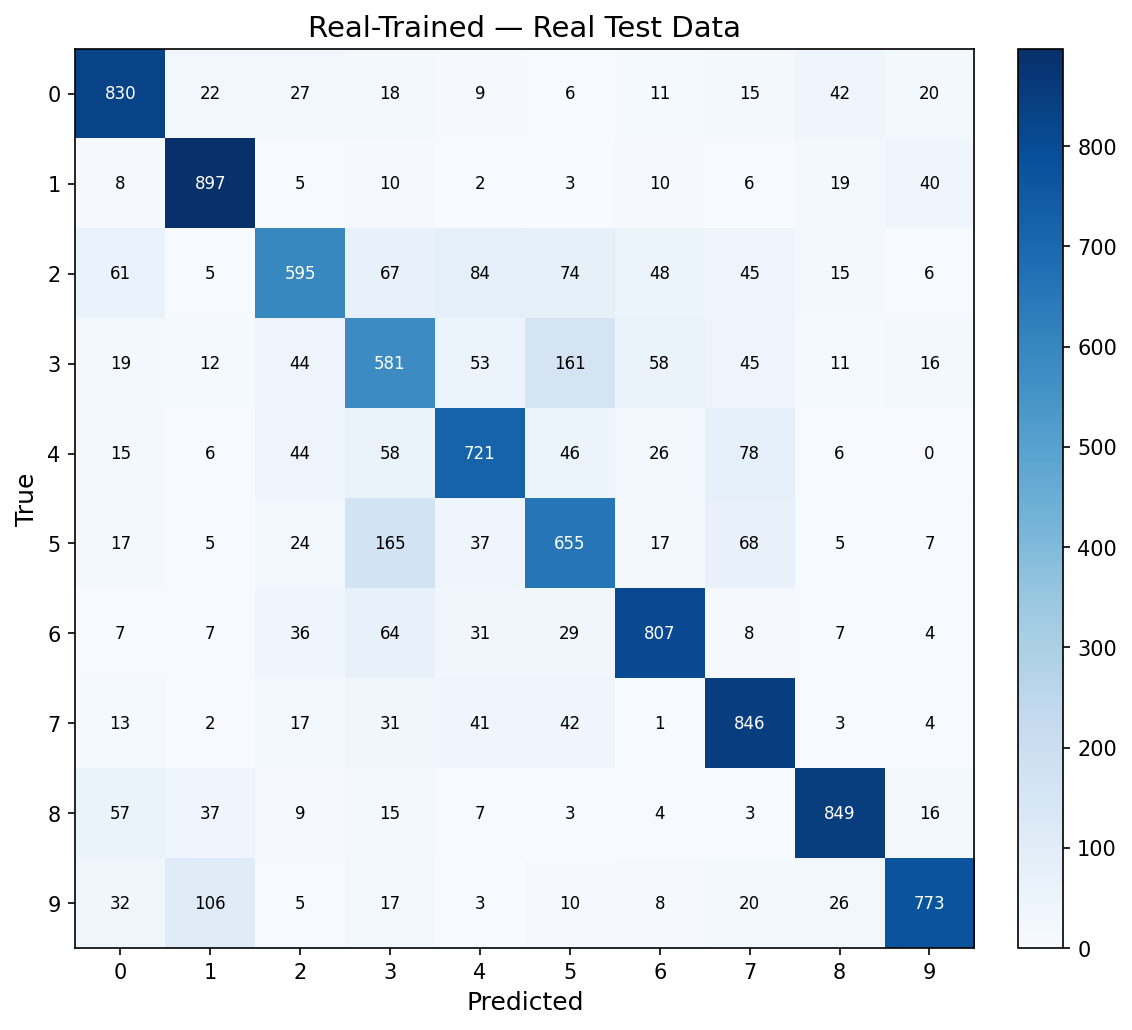
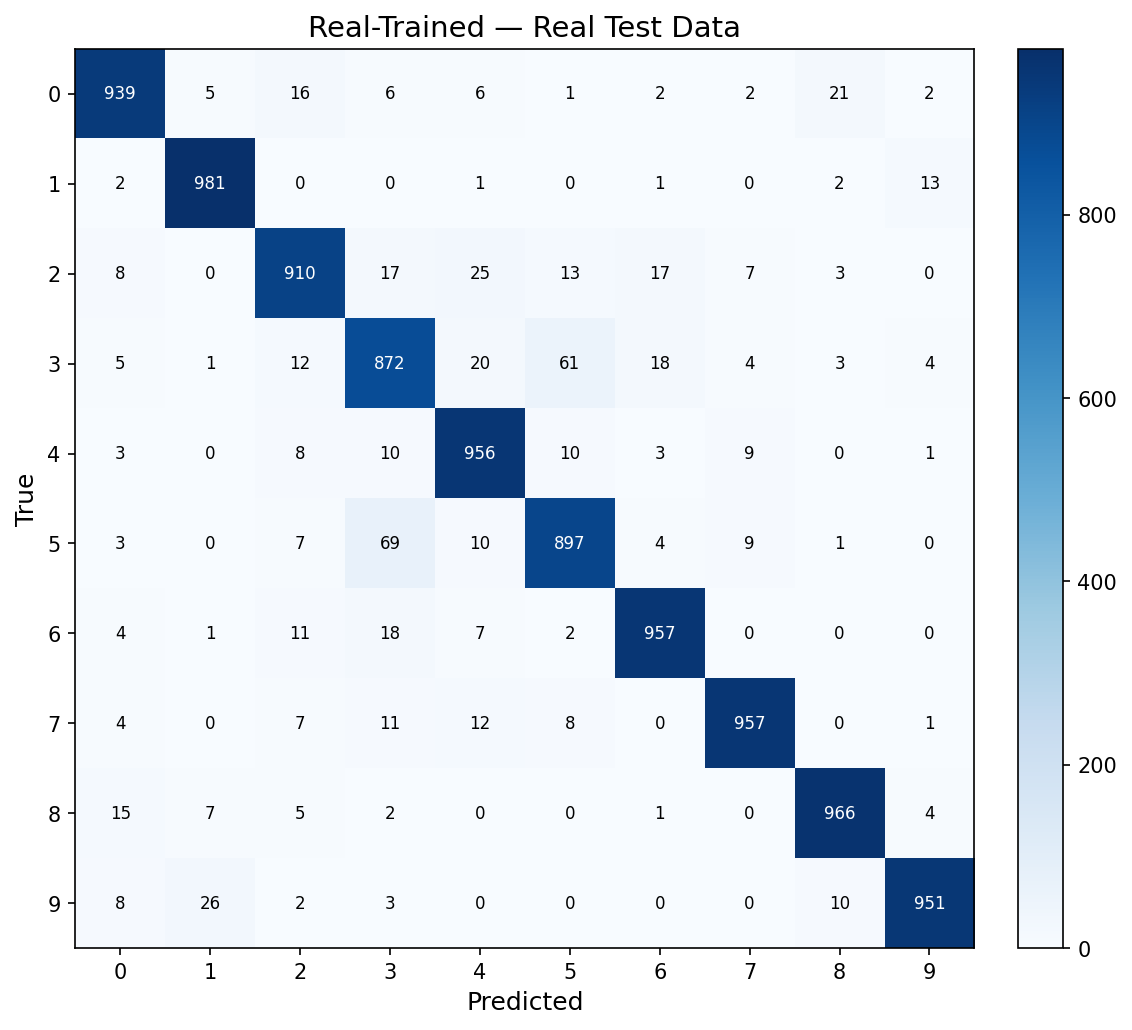
Tune CIFAR-10: EMA, bigger model, better classifier
Generative model improvements:
- 192 channels (was 128), ~16M params
- 200 epochs with EMA (decay 0.9999)
- LR warmup (1000 steps) + cosine decay

Classifier improvements:
- ResNet-style architecture with residual blocks + batch norm
- SGD with momentum + cosine LR schedule
- Data augmentation (random crop + flip) for both synthetic and real training
- 50 classifier epochs

Results: 83.01% synthetic-trained vs 93.86% real-trained (was 65.64% / 75.54%)

diff --git a/evaluate.py b/evaluate.py
@@ -25,6 +25,32 @@ from sample import sample
 from train import DATASET_CONFIG
 
 
+class AugmentedTensorDataset(torch.utils.data.Dataset):
+    """Wraps a TensorDataset with on-the-fly augmentation for training."""
+    def __init__(self, images, labels, augment=False):
+        self.images = images
+        self.labels = labels
+        self.augment = augment
+
+    def __len__(self):
+        return len(self.images)
+
+    def __getitem__(self, idx):
+        img = self.images[idx]
+        if self.augment:
+            # Random horizontal flip
+            if torch.rand(1).item() > 0.5:
+                img = img.flip(-1)
+            # Random crop with padding=4
+            pad = 4
+            img = F.pad(img, [pad] * 4, mode='reflect')
+            _, h, w = img.shape
+            top = torch.randint(0, 2 * pad, (1,)).item()
+            left = torch.randint(0, 2 * pad, (1,)).item()
+            img = img[:, top:top + h - 2 * pad, left:left + w - 2 * pad]
+        return img, self.labels[idx]
+
+
 # ---------- Synthetic data generation ----------
 
 def generate_synthetic_dataset(gen_model, device, samples_per_class=6000,
@@ -61,10 +87,11 @@ def generate_synthetic_dataset(gen_model, device, samples_per_class=6000,
 # ---------- Classifier training & evaluation ----------
 
 def train_classifier(model, loader, device, epochs=10):
-    optimizer = torch.optim.Adam(model.parameters(), lr=1e-3)
-    model.train()
+    optimizer = torch.optim.SGD(model.parameters(), lr=0.1, momentum=0.9, weight_decay=5e-4)
+    scheduler = torch.optim.lr_scheduler.CosineAnnealingLR(optimizer, T_max=epochs)
 
     for epoch in range(1, epochs + 1):
+        model.train()
         total_loss, correct, total = 0, 0, 0
         for x, y in loader:
             x, y = x.to(device), y.to(device)
@@ -79,6 +106,7 @@ def train_classifier(model, loader, device, epochs=10):
             correct += (logits.argmax(1) == y).sum().item()
             total += x.size(0)
 
+        scheduler.step()
         print(f"  Epoch {epoch}/{epochs} | Loss: {total_loss/total:.4f} | Acc: {100*correct/total:.1f}%")
 
 
@@ -167,19 +195,26 @@ def main(args):
 
     # Load real datasets
     if in_ch == 1:
-        transform = transforms.Compose([
+        train_transform = transforms.Compose([
             transforms.ToTensor(),
             transforms.Normalize((0.5,), (0.5,)),
         ])
+        test_transform = train_transform
     else:
-        transform = transforms.Compose([
+        train_transform = transforms.Compose([
+            transforms.RandomCrop(32, padding=4),
+            transforms.RandomHorizontalFlip(),
+            transforms.ToTensor(),
+            transforms.Normalize((0.5, 0.5, 0.5), (0.5, 0.5, 0.5)),
+        ])
+        test_transform = transforms.Compose([
             transforms.ToTensor(),
             transforms.Normalize((0.5, 0.5, 0.5), (0.5, 0.5, 0.5)),
         ])
 
-    real_train = ds_cfg["cls"](args.data_dir, train=True, download=True, transform=transform)
-    real_test = ds_cfg["cls"](args.data_dir, train=False, download=True, transform=transform)
-    real_train_loader = DataLoader(real_train, batch_size=256, shuffle=True, num_workers=4, pin_memory=True)
+    real_train = ds_cfg["cls"](args.data_dir, train=True, download=True, transform=train_transform)
+    real_test = ds_cfg["cls"](args.data_dir, train=False, download=True, transform=test_transform)
+    real_train_loader = DataLoader(real_train, batch_size=128, shuffle=True, num_workers=4, pin_memory=True)
     real_test_loader = DataLoader(real_test, batch_size=256, num_workers=4, pin_memory=True)
 
     results = {}
@@ -201,9 +236,11 @@ def main(args):
         img_size=img_size)
     print(f"  Synthetic dataset: {len(syn_images)} images")
 
-    syn_dataset = TensorDataset(syn_images, syn_labels)
-    syn_train_loader = DataLoader(syn_dataset, batch_size=256, shuffle=True, num_workers=4, pin_memory=True)
-    syn_eval_loader = DataLoader(syn_dataset, batch_size=256, num_workers=4, pin_memory=True)
+    use_aug = in_ch == 3  # augment RGB datasets
+    syn_train_dataset = AugmentedTensorDataset(syn_images, syn_labels, augment=use_aug)
+    syn_eval_dataset = TensorDataset(syn_images, syn_labels)
+    syn_train_loader = DataLoader(syn_train_dataset, batch_size=128, shuffle=True, num_workers=4, pin_memory=True)
+    syn_eval_loader = DataLoader(syn_eval_dataset, batch_size=256, num_workers=4, pin_memory=True)
 
     print("\nTraining classifier on SYNTHETIC data...")
     syn_classifier = Classifier(in_channels=in_ch, img_size=img_size).to(device)
@@ -262,6 +299,6 @@ if __name__ == "__main__":
     parser.add_argument("--samples-per-class", type=int, default=5000)
     parser.add_argument("--sample-steps", type=int, default=100)
     parser.add_argument("--cfg-scale", type=float, default=2.0)
-    parser.add_argument("--clf-epochs", type=int, default=10)
+    parser.add_argument("--clf-epochs", type=int, default=50)
     args = parser.parse_args()
     main(args)

diff --git a/train.py b/train.py
@@ -13,6 +13,7 @@ Loss:
     L = E[|| u_theta(x_t, t) - (z - epsilon) ||^2]
 """
 
+import copy
 import torch
 import torch.nn.functional as F
 from torch.utils.data import DataLoader
@@ -46,6 +47,12 @@ def get_transform(ds_cfg):
             transforms.ToTensor(),
             transforms.Normalize((0.5, 0.5, 0.5), (0.5, 0.5, 0.5)),
         ])
+
+
+@torch.no_grad()
+def update_ema(ema_model, model, decay):
+    for ema_p, p in zip(ema_model.parameters(), model.parameters()):
+        ema_p.mul_(decay).add_(p, alpha=1 - decay)
 
 
 def sample_and_save(model, device, epoch, args, ds_cfg):
@@ -87,11 +94,31 @@ def train(args):
 
     model = UNet(in_channels=ds_cfg["channels"], base_channels=args.channels).to(device)
     optimizer = torch.optim.AdamW(model.parameters(), lr=args.lr, weight_decay=1e-4)
-    scheduler = torch.optim.lr_scheduler.CosineAnnealingLR(optimizer, T_max=args.epochs * len(loader))
+
+    total_steps = args.epochs * len(loader)
+
+    # Warmup + cosine decay
+    def lr_lambda(step):
+        if step < args.warmup_steps:
+            return step / max(args.warmup_steps, 1)
+        progress = (step - args.warmup_steps) / max(total_steps - args.warmup_steps, 1)
+        return 0.5 * (1 + __import__('math').cos(__import__('math').pi * progress))
+
+    scheduler = torch.optim.lr_scheduler.LambdaLR(optimizer, lr_lambda)
+
+    # EMA
+    ema_model = None
+    if args.ema_decay > 0:
+        ema_model = copy.deepcopy(model)
+        ema_model.eval()
+        for p in ema_model.parameters():
+            p.requires_grad_(False)
+        print(f"EMA enabled (decay={args.ema_decay})")
 
     n_params = sum(p.numel() for p in model.parameters() if p.requires_grad)
     print(f"Model parameters: {n_params:,}")
 
+    global_step = 0
     for epoch in range(1, args.epochs + 1):
         model.train()
         total_loss = 0
@@ -121,16 +148,28 @@ def train(args):
             optimizer.step()
             scheduler.step()
 
+            if ema_model is not None:
+                update_ema(ema_model, model, args.ema_decay)
+
             total_loss += loss.item()
+            global_step += 1
 
         avg_loss = total_loss / len(loader)
-        print(f"Epoch {epoch}/{args.epochs} | Loss: {avg_loss:.4f}")
+        lr = optimizer.param_groups[0]['lr']
+        print(f"Epoch {epoch}/{args.epochs} | Loss: {avg_loss:.4f} | LR: {lr:.2e}")
 
         if epoch % args.sample_every == 0 or epoch == args.epochs:
-            sample_and_save(model, device, epoch, args, ds_cfg)
+            sample_model = ema_model if ema_model is not None else model
+            sample_and_save(sample_model, device, epoch, args, ds_cfg)
 
-    torch.save(model.state_dict(), os.path.join(args.output_dir, "model.pt"))
+    # Save model (prefer EMA if available)
+    save_model = ema_model if ema_model is not None else model
+    torch.save(save_model.state_dict(), os.path.join(args.output_dir, "model.pt"))
     print(f"Model saved to {args.output_dir}/model.pt")
+
+    # Also save the training model
+    if ema_model is not None:
+        torch.save(model.state_dict(), os.path.join(args.output_dir, "model_no_ema.pt"))
 
 
 if __name__ == "__main__":
@@ -144,5 +183,7 @@ if __name__ == "__main__":
     parser.add_argument("--dataset", type=str, default="mnist", choices=["mnist", "fashion", "cifar10"])
     parser.add_argument("--data-dir", type=str, default="./data")
     parser.add_argument("--output-dir", type=str, default="./output")
+    parser.add_argument("--ema-decay", type=float, default=0.0, help="EMA decay rate (0 to disable)")
+    parser.add_argument("--warmup-steps", type=int, default=0, help="LR warmup steps")
     args = parser.parse_args()
     train(args)

diff --git a/model.py b/model.py
@@ -120,25 +120,51 @@ class UNet(nn.Module):
         return self.out(h)
 
 
-class Classifier(nn.Module):
-    """Simple CNN classifier. Adapts to input channels and spatial size."""
-    def __init__(self, in_channels=1, img_size=28, num_classes=10):
+class _ClassifierBlock(nn.Module):
+    def __init__(self, in_ch, out_ch, stride=1):
         super().__init__()
-        self.conv1 = nn.Conv2d(in_channels, 32, 3, padding=1)
-        self.conv2 = nn.Conv2d(32, 64, 3, padding=1)
-        self.conv3 = nn.Conv2d(64, 128, 3, padding=1)
-        self.pool = nn.MaxPool2d(2)
-        self.dropout = nn.Dropout(0.25)
-
-        pooled_size = img_size // 4  # two rounds of pool(2)
-        self.fc1 = nn.Linear(128 * pooled_size * pooled_size, 256)
-        self.fc2 = nn.Linear(256, num_classes)
+        self.conv1 = nn.Conv2d(in_ch, out_ch, 3, stride=stride, padding=1, bias=False)
+        self.bn1 = nn.BatchNorm2d(out_ch)
+        self.conv2 = nn.Conv2d(out_ch, out_ch, 3, padding=1, bias=False)
+        self.bn2 = nn.BatchNorm2d(out_ch)
+        self.shortcut = nn.Sequential()
+        if stride != 1 or in_ch != out_ch:
+            self.shortcut = nn.Sequential(
+                nn.Conv2d(in_ch, out_ch, 1, stride=stride, bias=False),
+                nn.BatchNorm2d(out_ch),
+            )
 
     def forward(self, x):
-        x = self.pool(F.relu(self.conv1(x)))
-        x = self.pool(F.relu(self.conv2(x)))
-        x = F.relu(self.conv3(x))
-        x = x.view(x.size(0), -1)
-        x = F.relu(self.fc1(x))
-        x = self.dropout(x)
-        return self.fc2(x)
+        h = F.relu(self.bn1(self.conv1(x)))
+        h = self.bn2(self.conv2(h))
+        return F.relu(h + self.shortcut(x))
+
+
+class Classifier(nn.Module):
+    """ResNet-style classifier. Adapts to input channels and spatial size."""
+    def __init__(self, in_channels=1, img_size=28, num_classes=10):
+        super().__init__()
+        self.conv1 = nn.Conv2d(in_channels, 64, 3, padding=1, bias=False)
+        self.bn1 = nn.BatchNorm2d(64)
+
+        self.layer1 = nn.Sequential(
+            _ClassifierBlock(64, 64),
+            _ClassifierBlock(64, 64),
+        )
+        self.layer2 = nn.Sequential(
+            _ClassifierBlock(64, 128, stride=2),
+            _ClassifierBlock(128, 128),
+        )
+        self.layer3 = nn.Sequential(
+            _ClassifierBlock(128, 256, stride=2),
+            _ClassifierBlock(256, 256),
+        )
+        self.fc = nn.Linear(256, num_classes)
+
+    def forward(self, x):
+        x = F.relu(self.bn1(self.conv1(x)))
+        x = self.layer1(x)
+        x = self.layer2(x)
+        x = self.layer3(x)
+        x = F.adaptive_avg_pool2d(x, 1).view(x.size(0), -1)
+        return self.fc(x)

diff --git a/README.md b/README.md
@@ -12,7 +12,7 @@ We evaluate by training a classifier **only on synthetic data** and testing on r
 |---------|:-:|:-:|:-:|
 | MNIST | 96.35% | 99.24% | 2.89% |
 | Fashion-MNIST | 86.36% | 91.56% | 5.20% |
-| CIFAR-10 | 65.64% | 75.54% | 9.90% |
+| CIFAR-10 | 83.01% | 93.86% | 10.85% |
 
 ### MNIST
 
